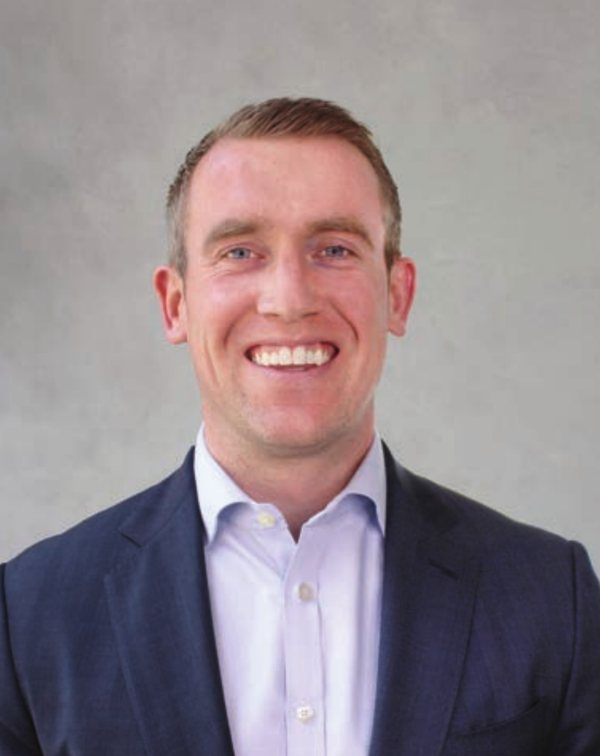
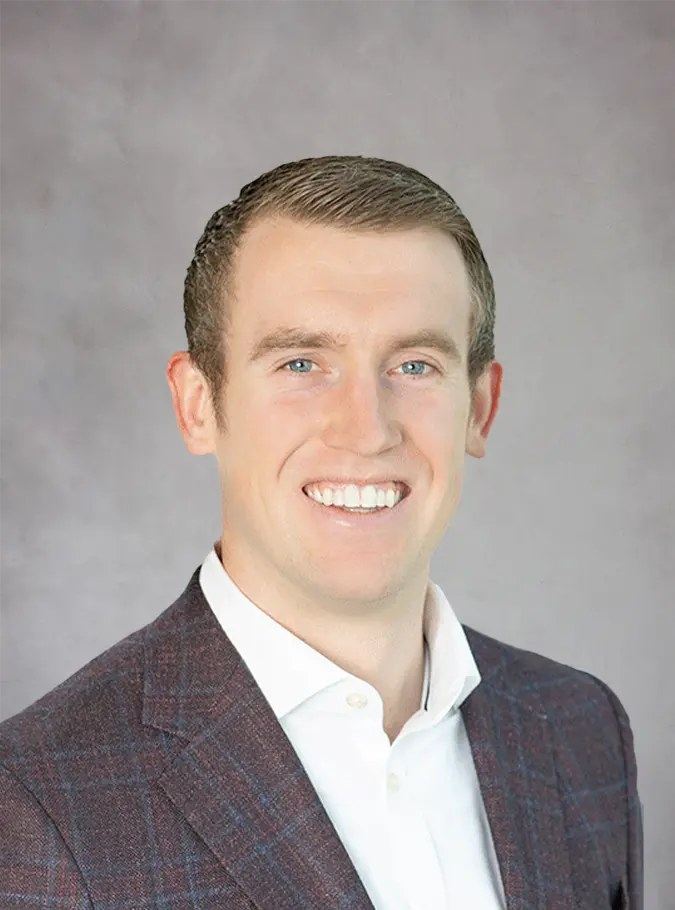
Use sharper Who's in the Room headshots from streamrealty.com
Replaces the PDF-extracted photos with the 675x910 headshots from each
person's Stream profile page.

Claude-Session: https://claude.ai/code/session_013rjN9eXsQUGtogBW2y87jx

diff --git a/index.html b/index.html
@@ -9,7 +9,7 @@
   <link rel="preconnect" href="https://fonts.gstatic.com" crossorigin>
   <link href="https://fonts.googleapis.com/css2?family=Nunito+Sans:ital,opsz,wght@0,6..12,200;0,6..12,300;0,6..12,400;0,6..12,600;0,6..12,700;0,6..12,800;1,6..12,200;1,6..12,300;1,6..12,400&display=swap" rel="stylesheet">
   <!-- Bump ?v= on deck.css and deck.js with each update so browsers fetch the new files -->
-  <link rel="stylesheet" href="deck.css?v=2026-11-02.4">
+  <link rel="stylesheet" href="deck.css?v=2026-11-02.5">
 </head>
 <body>
   <!-- Deck chrome: menu, slide counter, dot nav, progress -->
@@ -79,22 +79,22 @@
         <h2 class="title">Who’s in the <em>Room</em></h2>
         <ul class="people">
           <li class="person">
-            <div class="person__photo"><img src="img/team/brian-duffy.jpg" alt="" width="600" height="756" loading="lazy"></div>
+            <div class="person__photo"><img src="img/team/brian-duffy.jpg?v=2" alt="" width="675" height="910" loading="lazy"></div>
             <h3 class="person__name">Brian Duffy</h3>
             <p class="person__role">Managing Director</p>
           </li>
           <li class="person">
-            <div class="person__photo"><img src="img/team/ben-dickey.jpg" alt="" width="600" height="770" loading="lazy"></div>
+            <div class="person__photo"><img src="img/team/ben-dickey.jpg?v=2" alt="" width="675" height="910" loading="lazy"></div>
             <h3 class="person__name">Ben Dickey</h3>
             <p class="person__role">Vice President</p>
           </li>
           <li class="person">
-            <div class="person__photo"><img src="img/team/mario-macioce.jpg" alt="" width="600" height="756" loading="lazy"></div>
+            <div class="person__photo"><img src="img/team/mario-macioce.jpg?v=2" alt="" width="675" height="910" loading="lazy"></div>
             <h3 class="person__name">Mario Macioce</h3>
             <p class="person__role">Associate</p>
           </li>
           <li class="person">
-            <div class="person__photo"><img src="img/team/kennedy-arundel.jpg" alt="" width="600" height="751" loading="lazy"></div>
+            <div class="person__photo"><img src="img/team/kennedy-arundel.jpg?v=2" alt="" width="675" height="910" loading="lazy"></div>
             <h3 class="person__name">Kennedy Arundel</h3>
             <p class="person__role">Associate</p>
             <a class="btn-outline" href="video/kennedy-arundel-intro.mp4" data-video="video/kennedy-arundel-intro.mp4" data-poster="video/kennedy-arundel-intro-poster.jpg" data-caption="Kennedy Arundel" target="_blank" rel="noopener">Get to Know Me</a>
@@ -422,6 +422,6 @@
   </div>
   <div class="toast" id="toast" role="status" hidden></div>
 
-  <script src="deck.js?v=2026-11-02.4"></script>
+  <script src="deck.js?v=2026-11-02.5"></script>
 </body>
 </html>
